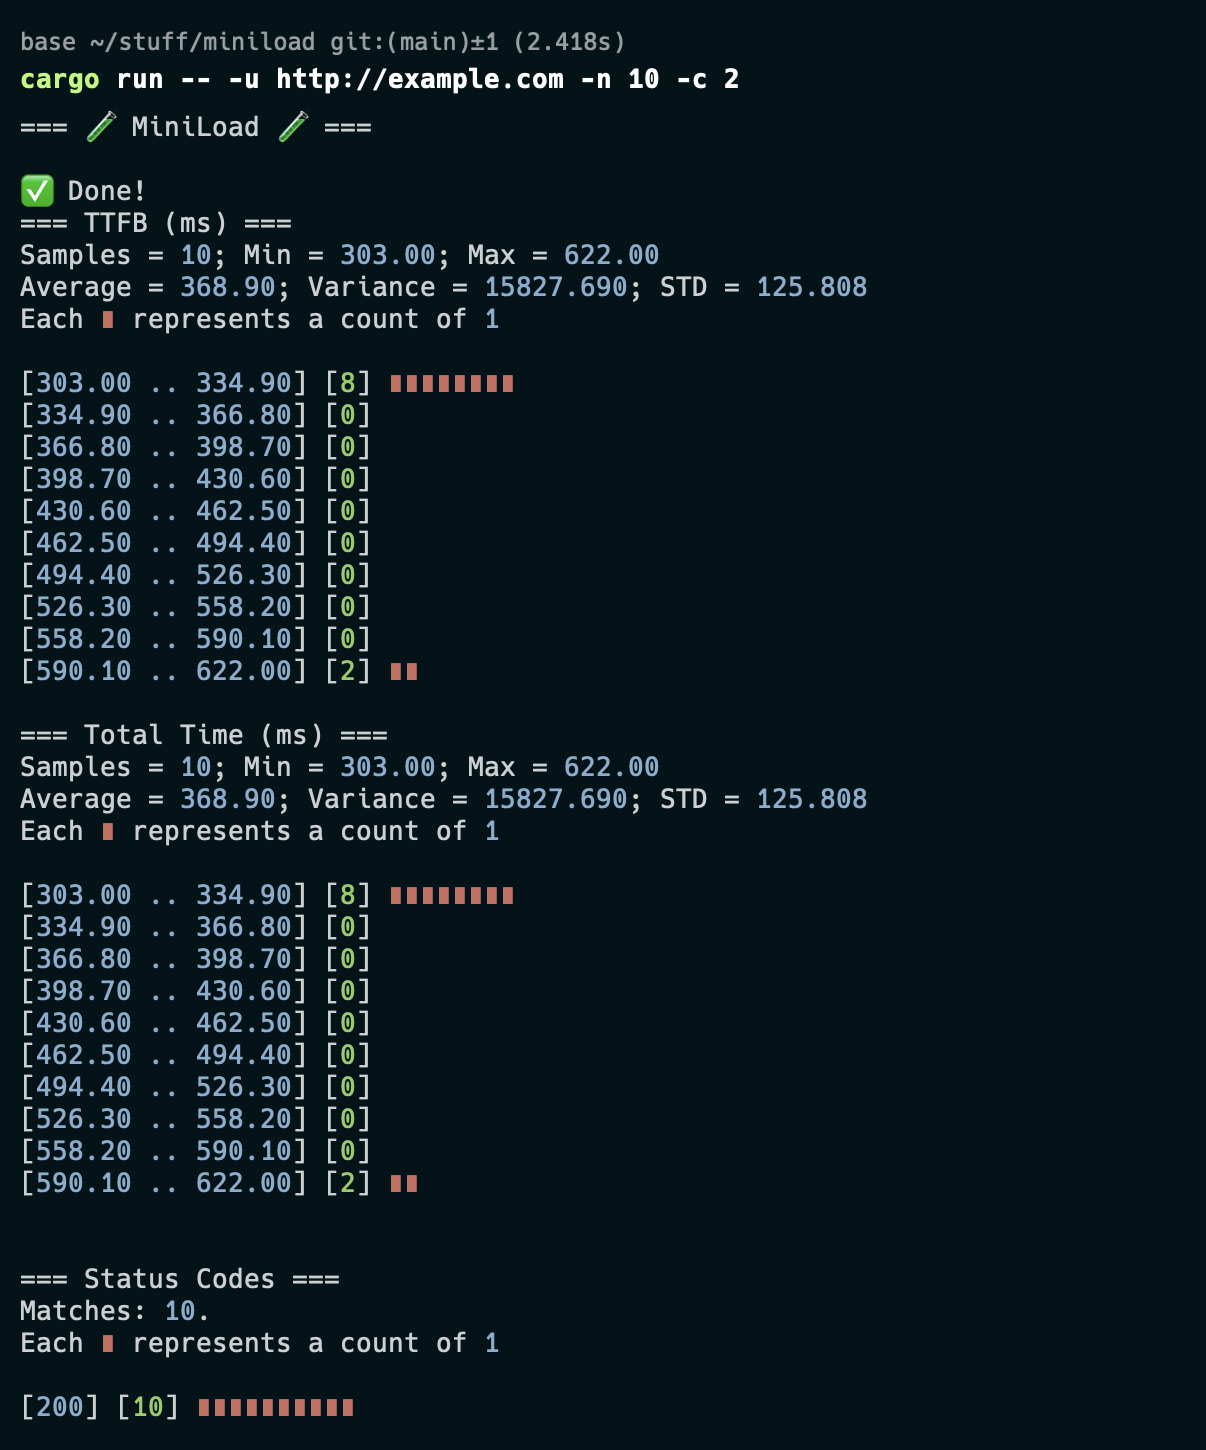
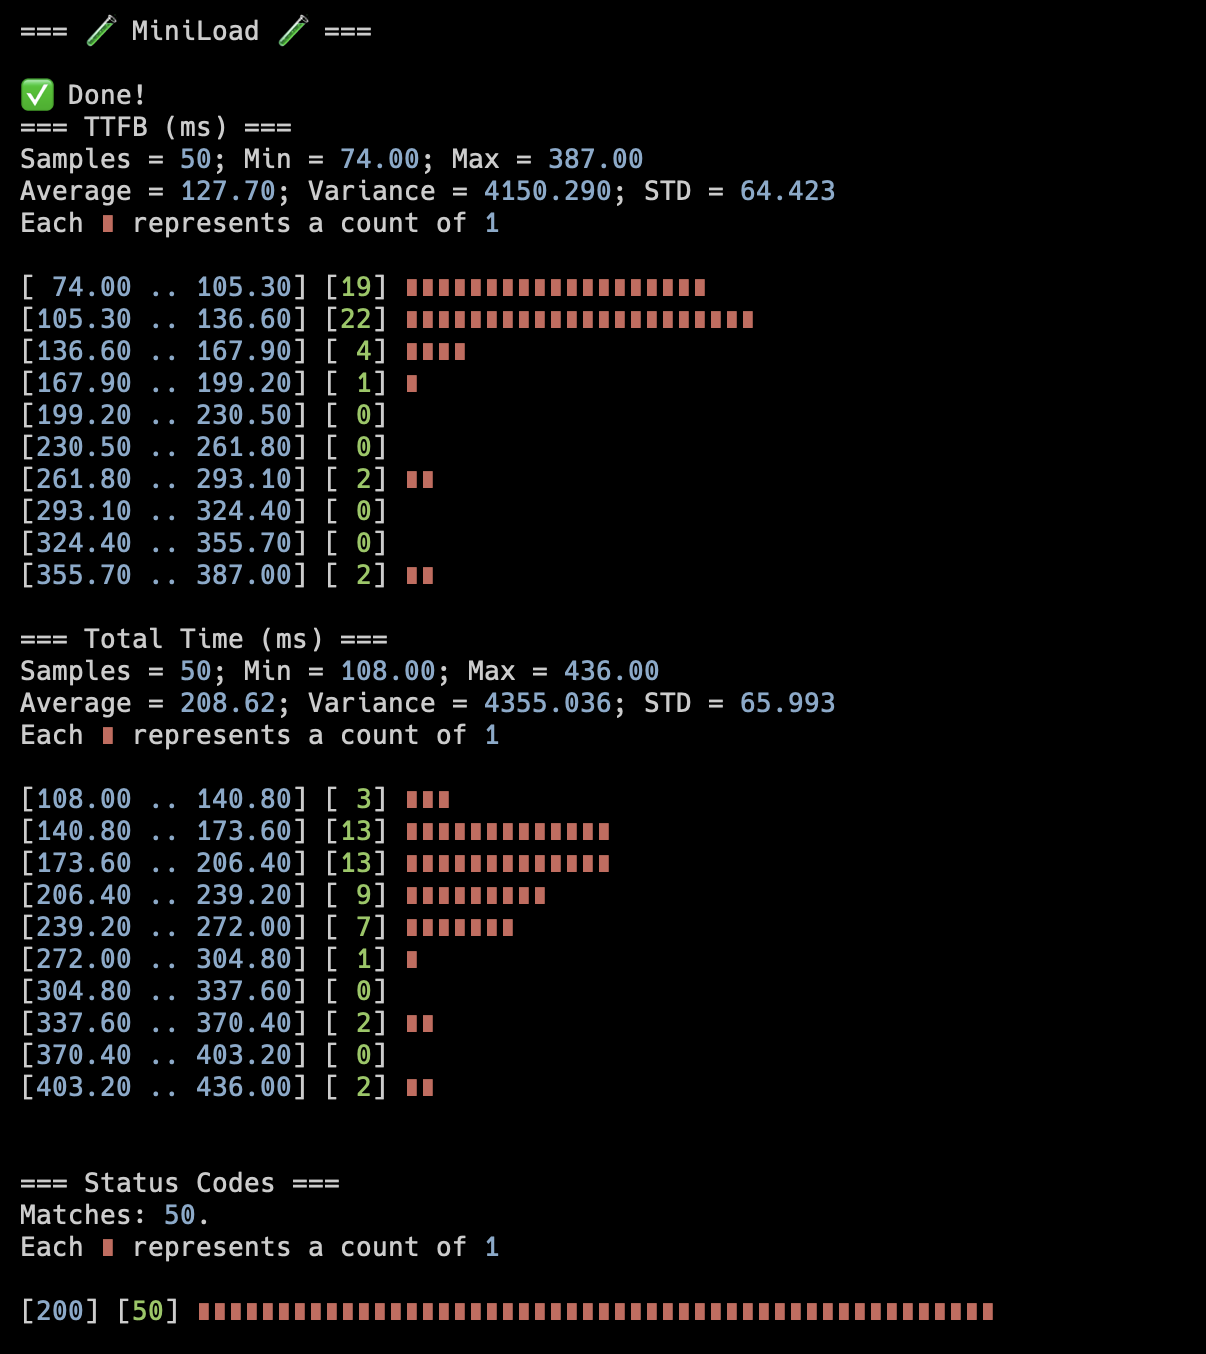
Fix total time rendering, change screenshot

diff --git a/src/ui.rs b/src/ui.rs
@@ -94,7 +94,7 @@ impl UI {
         }
         
         if self.total_time_points.len() > 0 {
-            self.render_histogram("Total Time".to_owned(), self.ttfb_points.clone());
+            self.render_histogram("Total Time".to_owned(), self.total_time_points.clone());
         }
 
         if self.status_map.len() > 0 {
